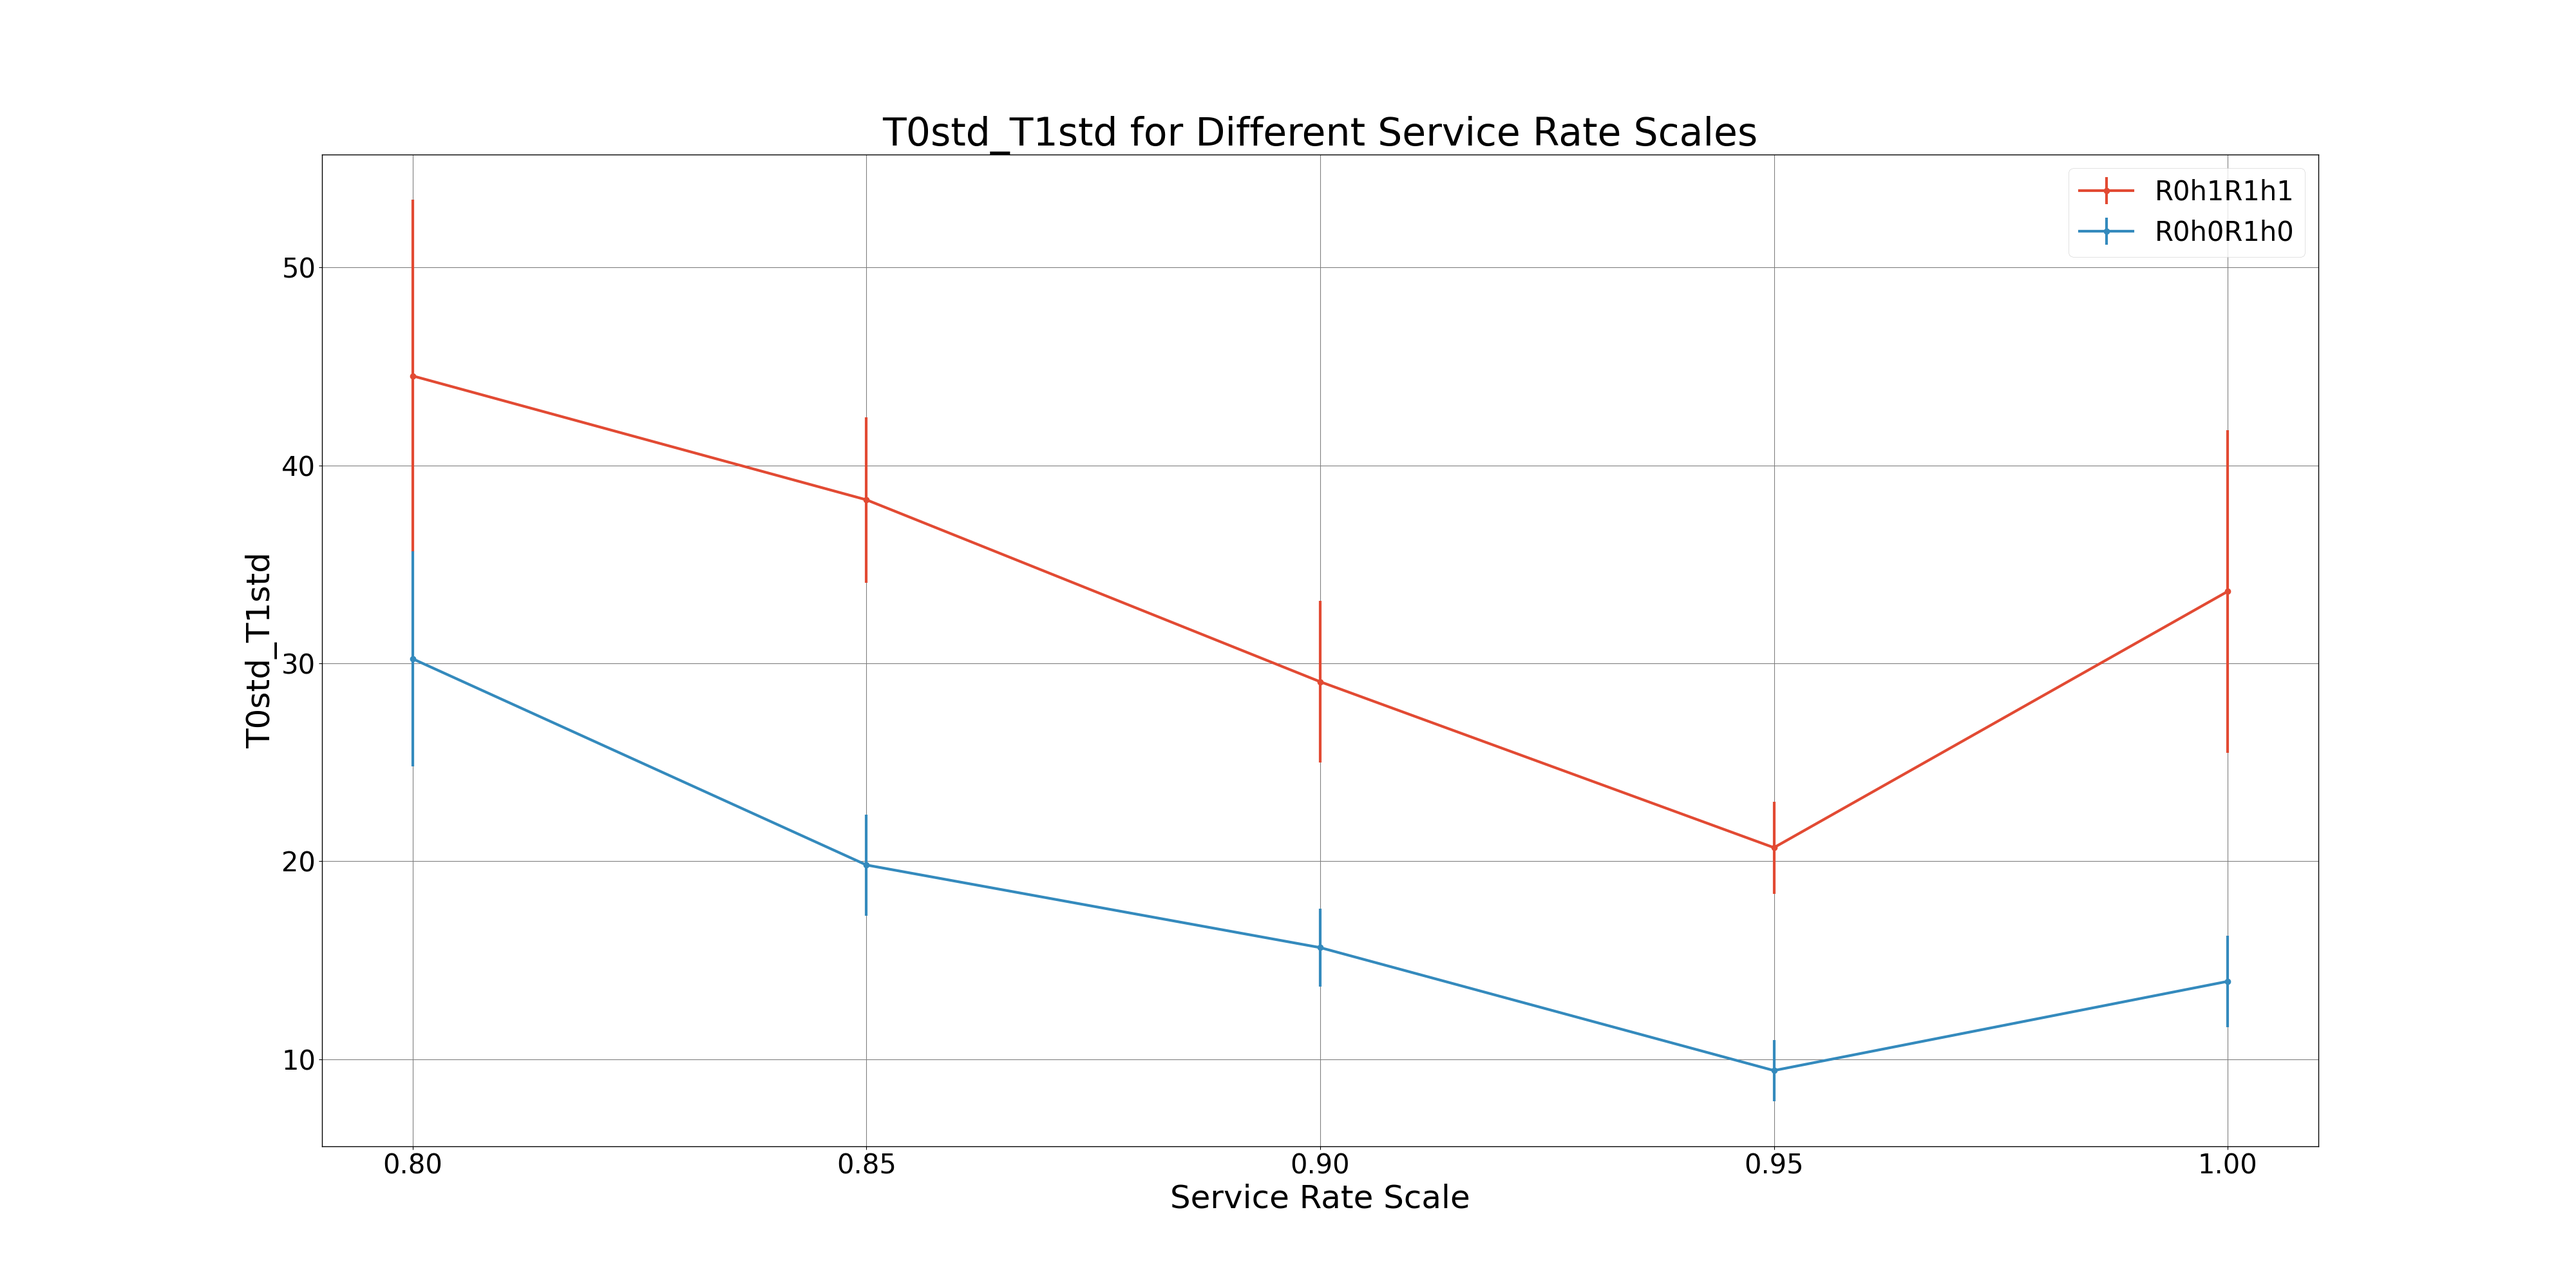
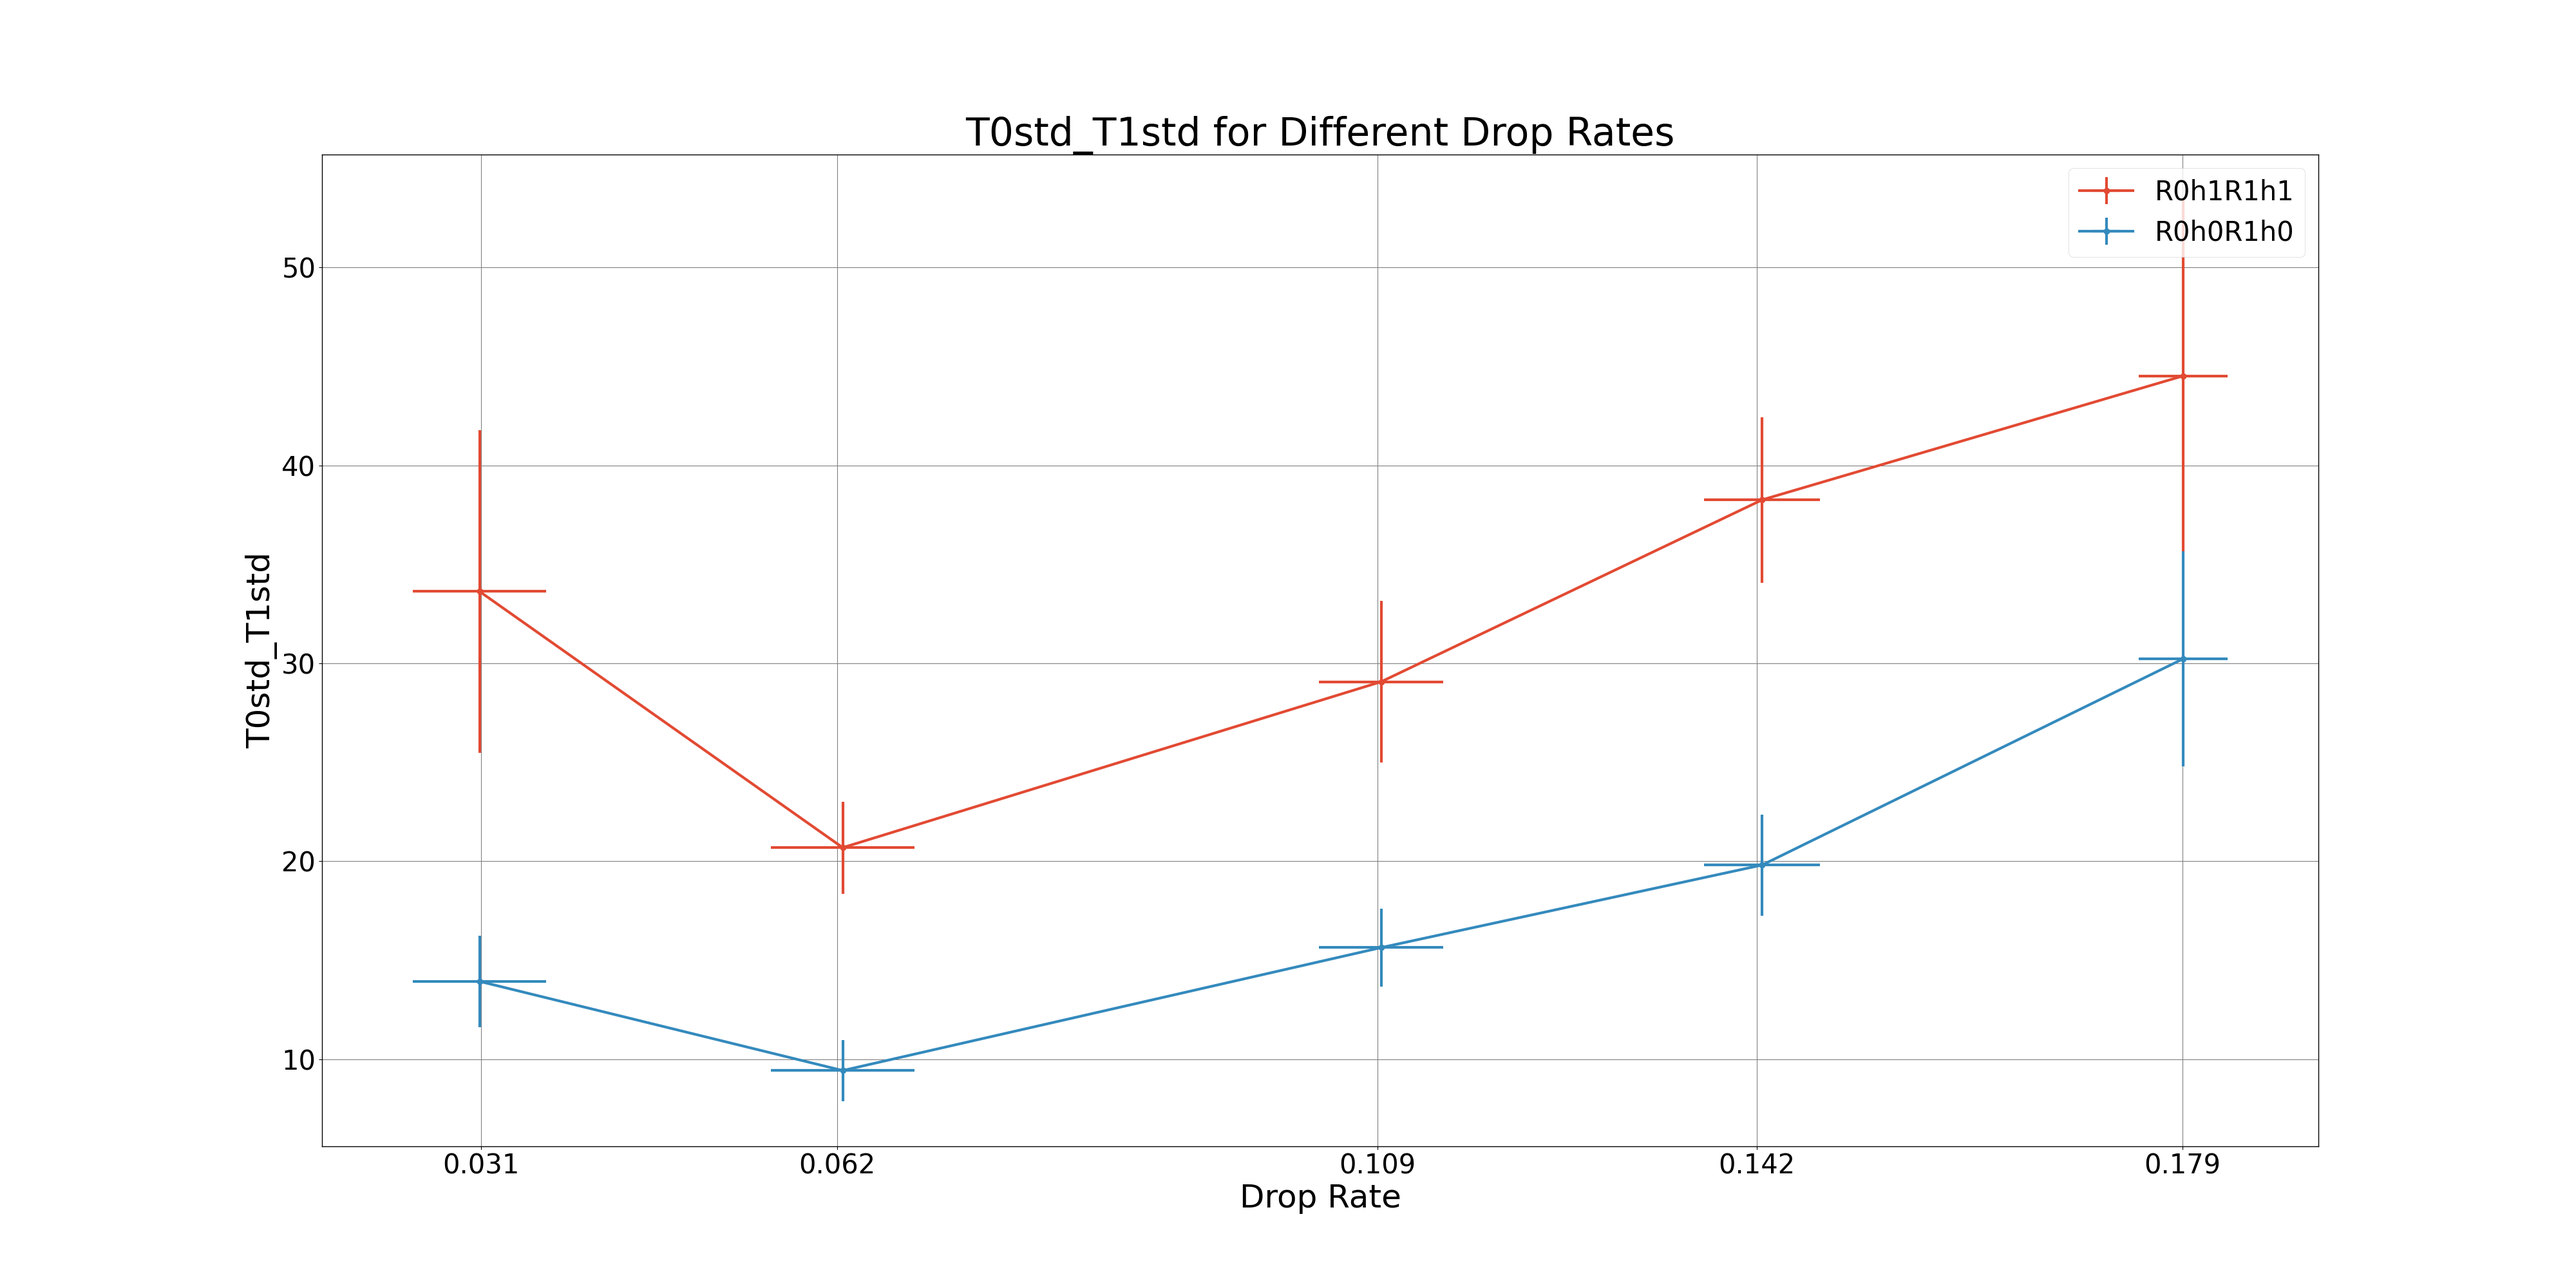
parital of exps added1

diff --git a/plots.py b/plots.py
@@ -193,25 +193,27 @@ plt.clf()
 
 # plot EndToEndStd_sumstdi per flow per service rate scale 
 for flow in flows:
-    plt.errorbar(list(results.keys()), 
+    plt.errorbar(droprates_mean, 
                  [np.mean(np.divide(value['EndToEndStd'][flow], (np.array(value['T0std']) + np.array(value['T1std'][flow])))) for value in results.values()], 
-                 yerr=[np.std(np.divide(value['EndToEndStd'][flow], (np.array(value['T0std']) + np.array(value['T1std'][flow])))) for value in results.values()], fmt='-o')
+                 yerr=[np.std(np.divide(value['EndToEndStd'][flow], (np.array(value['T0std']) + np.array(value['T1std'][flow])))) for value in results.values()], 
+                    xerr=droprates_std, fmt='-o')
 plt.legend(flows)
-plt.xticks(list(results.keys()))
-plt.xlabel('Service Rate Scale')
+plt.xticks(droprates_xticks)
+plt.xlabel('Drop Rate')
 plt.ylabel('EndToEndStd_sumstdi')
-plt.title('EndToEndStd_sumstdi for Different Service Rate Scales')
+plt.title('EndToEndStd_sumstdi for Different Drop Rates')
 plt.savefig('results/EndToEndStd_sumstdi.png')
 plt.clf()
 
 # plot EndToEndStd2_sumstdi2 per flow per service rate scale 
 for flow in flows:
-    plt.errorbar(list(results.keys()), 
+    plt.errorbar(droprates_mean, 
                  [np.mean(np.divide(np.array(value['EndToEndStd'][flow]) ** 2, (np.array(value['T0std']) ** 2 + np.array(value['T1std'][flow]) ** 2))) for value in results.values()], 
-                 yerr=[np.std(np.divide(np.array(value['EndToEndStd'][flow]) ** 2, (np.array(value['T0std']) ** 2 + np.array(value['T1std'][flow]) ** 2))) for value in results.values()], fmt='-o')
+                 yerr=[np.std(np.divide(np.array(value['EndToEndStd'][flow]) ** 2, (np.array(value['T0std']) ** 2 + np.array(value['T1std'][flow]) ** 2))) for value in results.values()], 
+                    xerr=droprates_std, fmt='-o')
 plt.legend(flows)
-plt.xticks(list(results.keys()))
-plt.xlabel('Service Rate Scale')
+plt.xticks(droprates_xticks)
+plt.xlabel('Drop Rate')
 plt.ylabel('EndToEndStd2_sumstdi2')
 plt.title('EndToEndStd2_sumstdi2 for Different Service Rate Scales')
 plt.savefig('results/EndToEndStd2_sumstdi2.png')
@@ -219,13 +221,13 @@ plt.clf()
 
 # plot T0std_T1std per flow per service rate scale 
 for flow in flows:
-    plt.errorbar(list(results.keys()), [np.mean(np.divide(np.array(value['T0std']), np.array(value['T1std'][flow]))) for value in results.values()], 
-                 yerr=[np.std(np.divide(np.array(value['T0std']), np.array(value['T1std'][flow]))) for value in results.values()], fmt='-o')
+    plt.errorbar(droprates_mean, [np.mean(np.divide(np.array(value['T0std']), np.array(value['T1std'][flow]))) for value in results.values()], 
+                 yerr=[np.std(np.divide(np.array(value['T0std']), np.array(value['T1std'][flow]))) for value in results.values()], xerr=droprates_std, fmt='-o')
 plt.legend(flows)
-plt.xticks(list(results.keys()))
-plt.xlabel('Service Rate Scale')
+plt.xticks(droprates_xticks)
+plt.xlabel('Drop Rate')
 plt.ylabel('T0std_T1std')
-plt.title('T0std_T1std for Different Service Rate Scales')
+plt.title('T0std_T1std for Different Drop Rates')
 plt.savefig('results/T0std_T1std.png')
 plt.clf()
 
